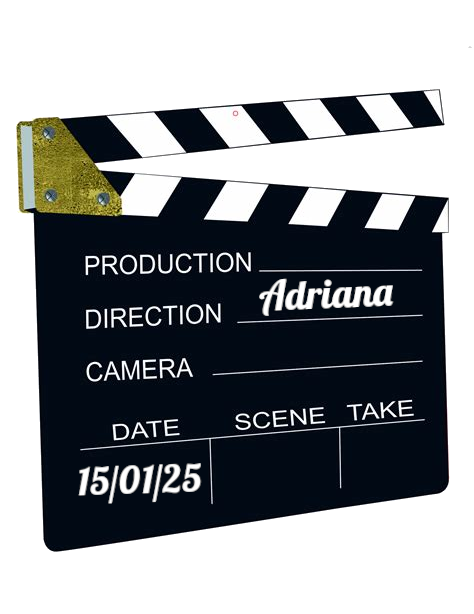
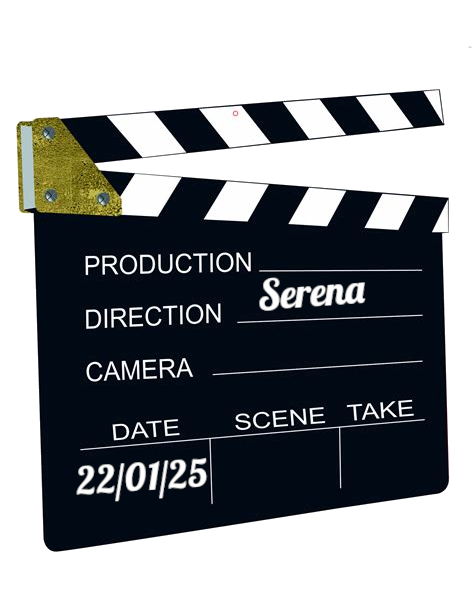
Sofia

Changed region(s): [[0.5316, 0.4332, 0.827, 0.5261], [0.1477, 0.7427, 0.443, 0.8355]]

diff --git a/index.html b/index.html
@@ -39,12 +39,21 @@
 
 <br /><br /><hr width="90%"><hr width="90%"><br /><br />
 
-<h1>Mercoled&igrave; 15 gennaio 2025</h1>
+<h1>Mercoled&igrave; 22 gennaio 2025</h1>
 <h2>Alle 20:30 in Via Nizza, 72</h2>
 <img src="img/ciak.png" class="locandina"/>
-<h2>Selezionatrice: <i>Adriana</i></h2>
+<h2>Selezionatrice: <i>Serena</i></h2>
 
 <br /><br /><hr width="90%"><hr width="90%"><br /><br />
+
+<h1>Mercoled&igrave; 15 gennaio 2025</h1>
+<p class="mtitle">
+<a href="https://www.imdb.com/title/tt8296592" target="_blank">Sofia</a>
+</p>
+<img src="https://image.tmdb.org/t/p/w500/ypbLmjInQJsxArXjLzZ7MoWsaUd.jpg" class="locandina"/>
+<h2>Selezionatrice: <i>Adriana</i></h2>
+
+<br /><br /><hr width="90%"><br /><br />
 
 <h1>Mercoled&igrave; 8 gennaio 2025</h1>
 <p class="mtitle">

diff --git a/movieslist.html b/movieslist.html
@@ -29,6 +29,17 @@ Rassegnamoci, Cineforum a Programma Variabile - Elenco Film
   </thead>
   <tbody>
     <tr>
+      <td>15-Gen-2025</td>
+      <td>Sofia</td>
+      <td>Adriana</td>
+      <td>-</td>
+      <td>2018</td>
+      <td>Meryem Benm'Barek-Aloïsi</td>
+      <td>85</td>
+      <td>BE; FR</td>
+      <td><a href="https://www.imdb.com/title/tt8296592" target="_blank">https://www.imdb.com/title/tt8296592</a></td>
+    </tr>
+    <tr>
       <td>8-Gen-2025</td>
       <td>Quo Vadis, Aida?</td>
       <td>Vincenzo</td>
